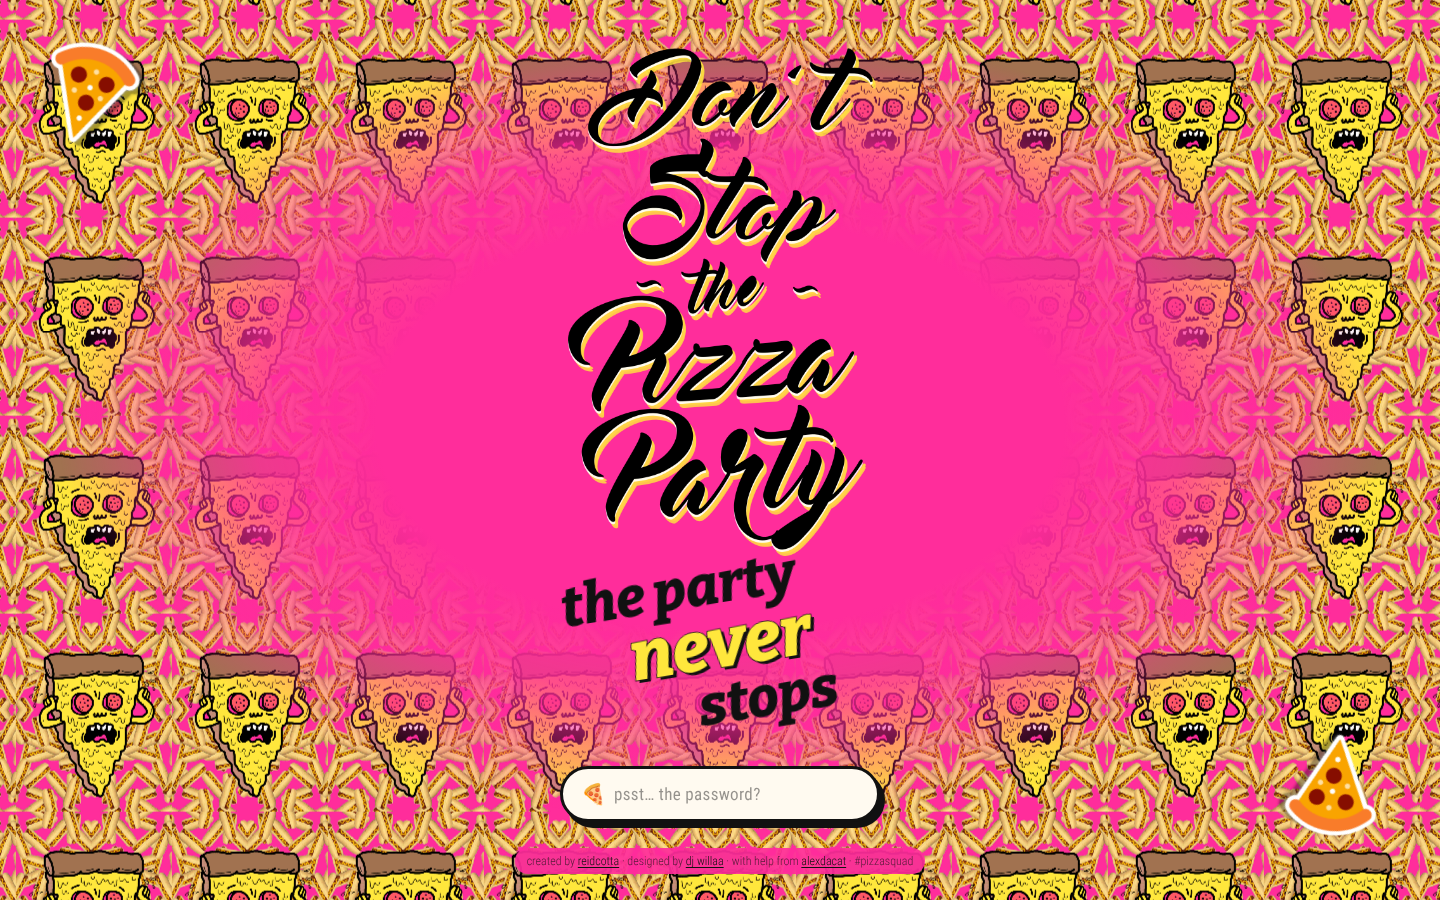
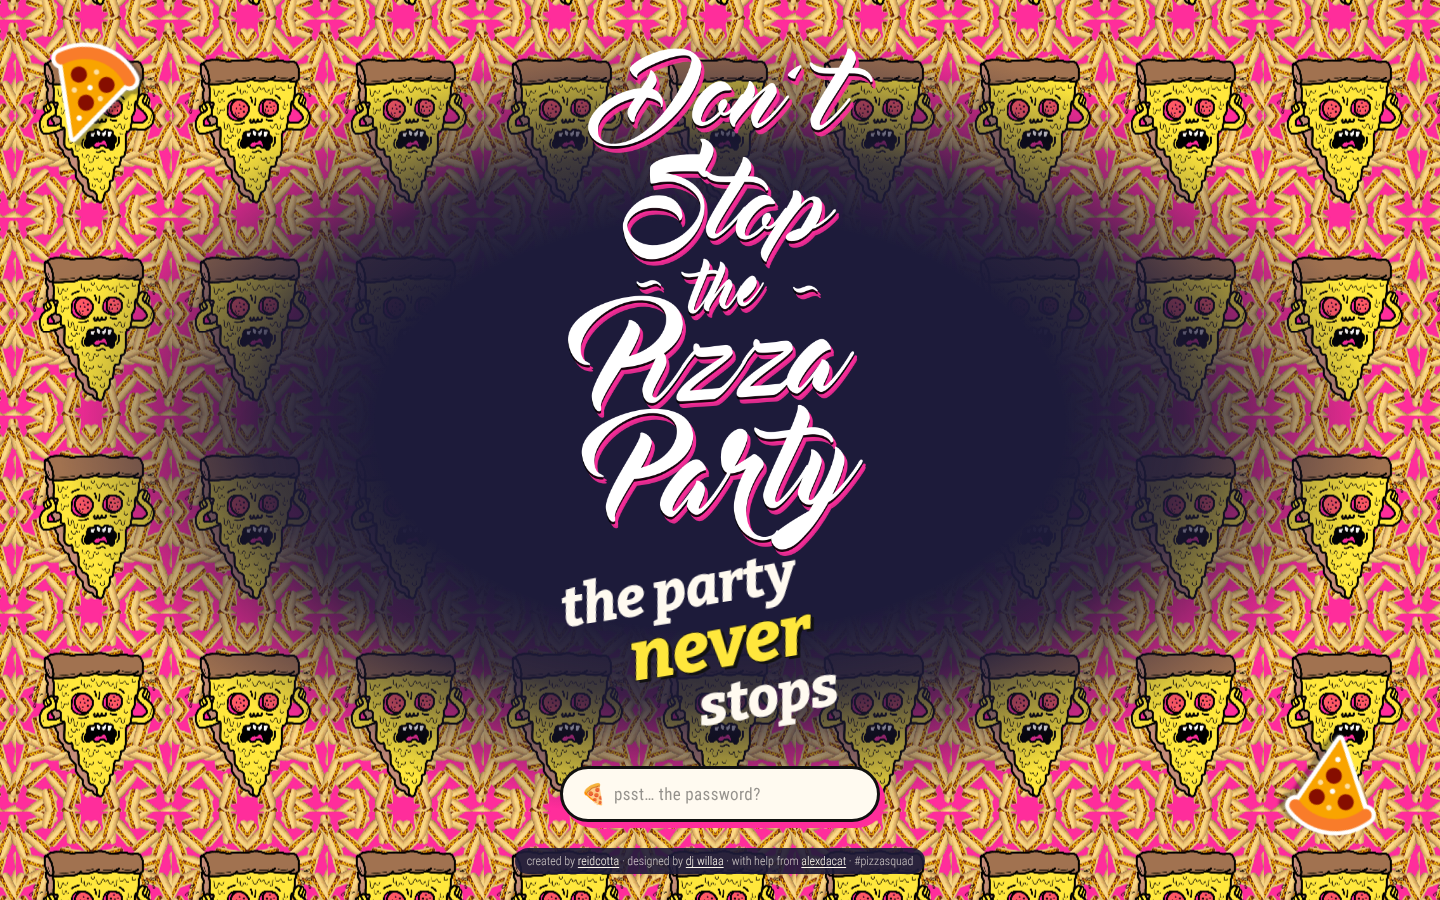
Hero: a night-sky spotlight instead of bright pink
The spotlight behind the words is now the game's night-sky indigo
(#1d1b3a), so the logo flips to cream with a pink edge, the tagline goes
cream ("never" stays yellow), and the pill's offset shadow and the
credits chip pick up the pink and the night colour. One variable (--spot)
sets it; game black (#17141a) is noted next to it. Colour option shots
added.

Claude-Session: https://claude.ai/code/session_01BUtFxh6bhKj94LRtZvhsyK

diff --git a/files/home.css b/files/home.css
@@ -5,6 +5,13 @@
   --yellow: #ffe73c;
   --ink: #111;
   --cream: #fffaf0;
+  /* the spotlight behind the words: the game's night sky (game black is
+     #17141a / 23, 20, 26 if you want it darker) */
+  --spot: #1d1b3a;
+  --spot-rgb: 29, 27, 58;
+  --words: var(--cream);
+  --logo-filter: invert(1) drop-shadow(3px 4px 0 rgba(255, 45, 155, 0.95));
+  --accent: var(--pink);
   --spring: cubic-bezier(0.34, 1.56, 0.64, 1);
 }
 
@@ -13,8 +20,8 @@ html, body { height: 100%; }
    the hero wants the whole screen and a bare logo */
 body {
   width: auto;
-  background: var(--pink);
-  color: var(--ink);
+  background: var(--spot);
+  color: var(--words);
   text-shadow: none;
   overflow-x: hidden;
 }
@@ -35,7 +42,7 @@ body {
   --py: 0;
 }
 
-/* ---- the old melting-pizza wallpaper, creeping behind a pink spotlight ---- */
+/* ---- the old melting-pizza wallpaper, creeping behind a dark spotlight ---- */
 .dsp-doodles { position: absolute; inset: 0; pointer-events: none; overflow: hidden; }
 .dsp-wallpaper {
   position: absolute;
@@ -49,12 +56,12 @@ body {
   from { transform: translate(0, 0); }
   to   { transform: translate(156px, 198px); }   /* exactly one tile: seamless loop */
 }
-/* solid pink where the words are, the full insane pattern toward the edges */
+/* solid --spot where the words are, the full insane pattern toward the edges */
 .dsp-spot {
   position: absolute;
   inset: 0;
   background: radial-gradient(ellipse 46% 44% at 50% 47%,
-    var(--pink) 0%, var(--pink) 52%, rgba(255, 45, 155, 0.82) 70%, rgba(255, 45, 155, 0) 100%);
+    var(--spot) 0%, var(--spot) 52%, rgba(var(--spot-rgb), 0.85) 70%, rgba(var(--spot-rgb), 0) 100%);
 }
 .dsp-sticker {
   position: absolute;
@@ -94,7 +101,7 @@ body {
   height: min(48vh, 420px);
   max-width: 70vw;
   object-fit: contain;
-  filter: drop-shadow(3px 4px 0 rgba(255, 231, 60, 0.9));
+  filter: var(--logo-filter);
 }
 .dsp-tag {
   display: flex;
@@ -135,12 +142,12 @@ body {
   border: 3px solid var(--ink);
   border-radius: 999px;
   background: var(--cream);
-  box-shadow: 5px 6px 0 var(--ink);
+  box-shadow: 5px 6px 0 var(--accent);
   cursor: text;
   transition: transform 0.25s var(--spring), box-shadow 0.25s var(--spring);
   animation: dsp-rise 0.7s var(--spring) 1.3s both;
 }
-.dsp-pill:focus-within { transform: translate(-2px, -2px) rotate(-1deg); box-shadow: 8px 9px 0 var(--ink); }
+.dsp-pill:focus-within { transform: translate(-2px, -2px) rotate(-1deg); box-shadow: 8px 9px 0 var(--accent); }
 .dsp-pill__icon { font-size: 20px; line-height: 1; }
 .dsp-pill input {
   flex: 1;
@@ -160,14 +167,14 @@ body {
   z-index: 2;
   padding: 4px 12px;
   border-radius: 999px;
-  background: rgba(255, 45, 155, 0.92);
+  background: rgba(var(--spot-rgb), 0.9);
   max-width: min(34em, 70vw);
   margin: 26px 0 0;
-  color: rgba(17, 17, 17, 0.7);
+  color: rgba(255, 250, 240, 0.75);
   font: 300 12px/1.5 "Roboto Condensed", helvetica, sans-serif;
   text-align: center;
 }
-.dsp-credits a { color: var(--ink); text-decoration: underline; text-underline-offset: 2px; }
+.dsp-credits a { color: var(--words); text-decoration: underline; text-underline-offset: 2px; }
 
 @media (min-width: 900px) {
   .dsp-logo img { height: min(56vh, 520px); }

diff --git a/index.html b/index.html
@@ -4,11 +4,11 @@ description: Where the pizza party dont stop!
 no_footer: true
 ---
 {% comment %} Homepage hero, after the pizzaandtechno.com hero: the old melting-pizza
-   wallpaper creeping behind a pink spotlight, a logo that pops in, a tilted stacked
+   wallpaper creeping behind a night-sky spotlight, a logo that pops in, a tilted stacked
    tagline, and the secret word box as a fat pill. The old site lives on behind the
    word "nostalgia". {% endcomment %}
 <link href="https://fonts.googleapis.com/css2?family=Bitter:ital,wght@1,800&display=swap" rel="stylesheet">
-<link rel="stylesheet" href="/files/home.css?v=20261104b">
+<link rel="stylesheet" href="/files/home.css?v=20261104c">
 
 <main class="dsp-hero">
   <div class="dsp-doodles" aria-hidden="true">
